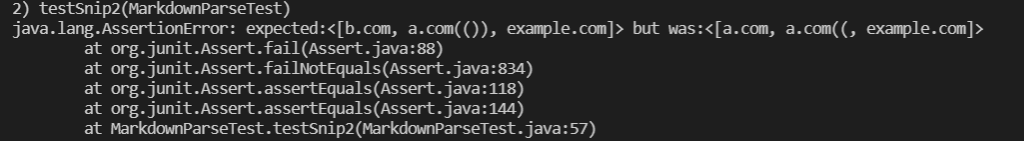
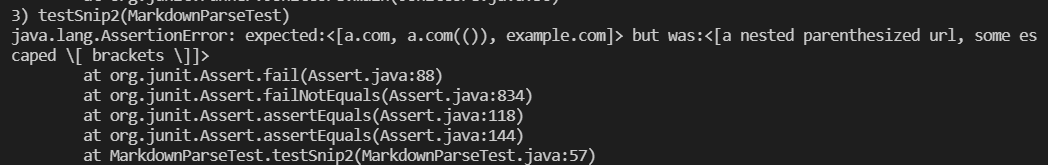
update issues

Changed region(s): [[0.0, 0.0, 1.0, 1.0]]

diff --git a/report4/lab-report-4-week-8.md b/report4/lab-report-4-week-8.md
@@ -22,17 +22,13 @@ Test for other group's MarkdownParse:
 
 ## Snippet 2
 For this snippet, the correct output should be
-`[a.com(()),example.com]`
+`[a.com,a.com(()),example.com]`
 
 Here is how I tested:
 
 ![image](test2.png)
 
-Test for our group's MarkdownParse:
-![image](result2.png)
-
-Change work for snippet 2:
-I think a small code change will work for snippet 2. we could make change for cases related to nest parentheses, brackets, and escaped brackets could be to pair close and opening parentheses. 
+our group's MarkdownParse was passed for second snippet;
 
 Test for other group's MarkdownParse:
 ![image](result5.png)
